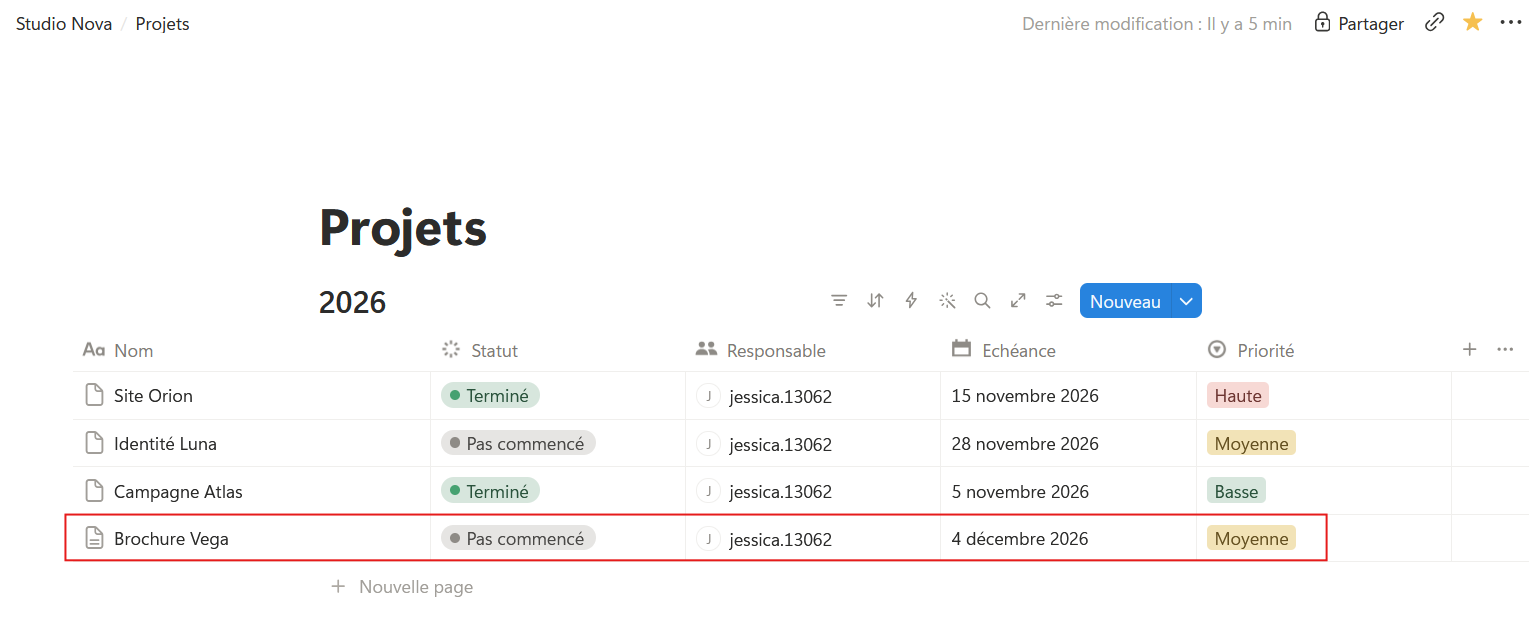
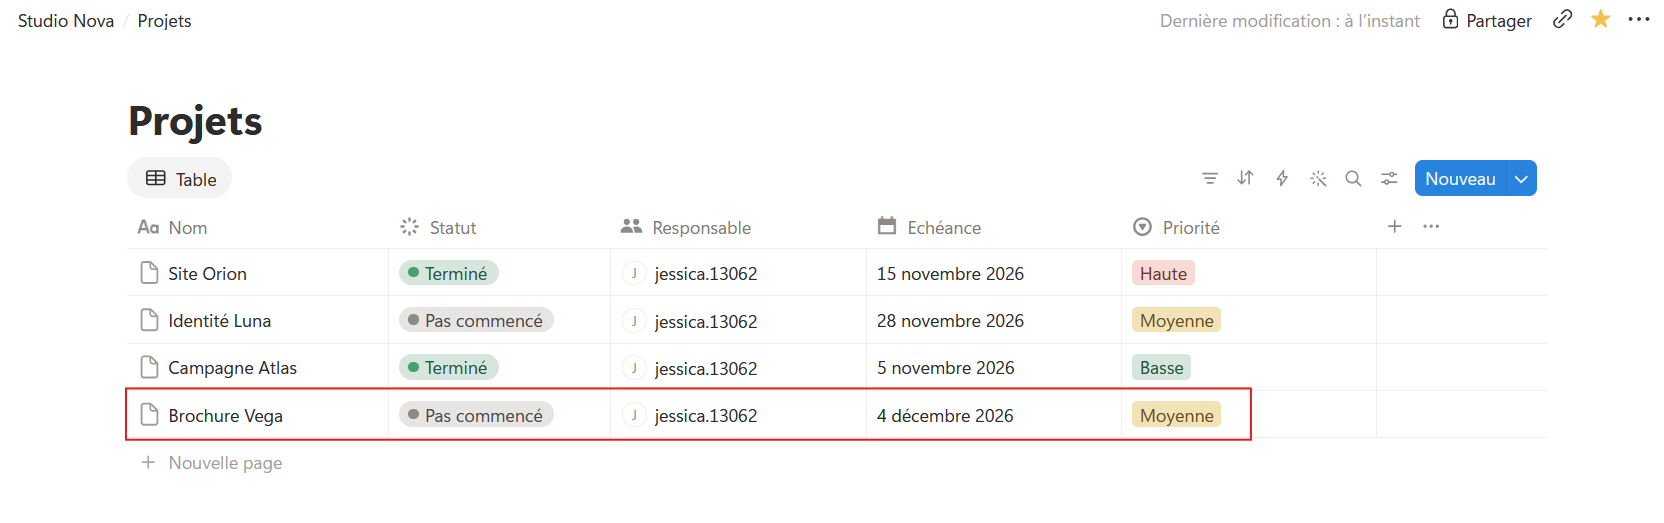
Captures des modules 4 à 6 et corrections
- 18 captures intégrées (4.5, 4.6, 5.1 à 5.4, 6.1 à 6.4) ; deux anciennes remplacées
- 3.1 : schéma et quiz sans la « Réunion client Orion », jamais créée
- 4.5 : « Base de données vide » ; étape pour recréer les liens vers Projets
- 5.1 : vue « Table » renommée via « Afficher les paramètres »
- 5.4 : tri « Ancien → Nouveau » au lieu de « croissant »
- 6.1 : statut de chaque tâche, filtre « Responsable : Contient »
- 6.3 : « /linked » → « Vue liée de la source de données »

Claude-Session: https://claude.ai/code/session_01FC8iCvTPbnXeTJtYSQPRyh

diff --git a/lecons/m04-l05-creer-la-base-projets.html b/lecons/m04-l05-creer-la-base-projets.html
@@ -88,21 +88,13 @@
 
         <ol class="tutorial">
           <li>Ouvre la page « Projets », vide depuis le module 2.</li>
-          <li>Sans rien taper dans la page, regarde en bas : Notion propose plusieurs options en gris pour commencer. Choisis <strong>« Base de données »</strong>.
+          <li>Sans rien taper dans la page, regarde en bas : sous « Premiers pas… », Notion propose plusieurs options en gris. Choisis <strong>« Base de données »</strong>.
             <figure class="screenshot">
-              <div class="screenshot__placeholder" role="img" aria-label="Emplacement pour une capture d'écran : la page « Projets » vide, avec les options en gris en bas et « Base de données » signalée">
-                <svg viewBox="0 0 24 24" fill="none" stroke="currentColor" stroke-width="1.5" stroke-linecap="round" stroke-linejoin="round" aria-hidden="true"><rect x="3" y="4" width="18" height="16" rx="2"/><circle cx="9" cy="10" r="2"/><path d="M21 16l-5-5-8 8"/></svg>
-                <strong>Capture d'écran Notion</strong>
-                <span>Option « Base de données » d'une page vide · images/captures/m04-projets-option-base.png</span>
-              </div>
+              <img src="../images/captures/m04-projets-option-base.png" alt="La page « Projets » vide : en bas, sous « Premiers pas… », l'option « Base de données » est entourée, à côté de Demander à l'IA, Notes d'IA, Formulaire et Modèles" width="1735" height="1020" loading="lazy">
             </figure></li>
-          <li>En haut à droite, sélectionne <strong>« Nouvelle base de données »</strong>. La page « Projets » devient la base : son titre reste « Projets », et un tableau apparaît dessous.
+          <li>Une fenêtre de modèles s'ouvre. En haut à droite, clique sur <strong>« Base de données vide »</strong>. La page « Projets » devient la base : son titre reste « Projets », et un tableau apparaît dessous.
             <figure class="screenshot">
-              <div class="screenshot__placeholder" role="img" aria-label="Emplacement pour une capture d'écran : le choix « Nouvelle base de données » en haut à droite, signalé">
-                <svg viewBox="0 0 24 24" fill="none" stroke="currentColor" stroke-width="1.5" stroke-linecap="round" stroke-linejoin="round" aria-hidden="true"><rect x="3" y="4" width="18" height="16" rx="2"/><circle cx="9" cy="10" r="2"/><path d="M21 16l-5-5-8 8"/></svg>
-                <strong>Capture d'écran Notion</strong>
-                <span>Créer une nouvelle base · images/captures/m04-projets-nouvelle-base.png</span>
-              </div>
+              <img src="../images/captures/m04-projets-nouvelle-base.png" alt="La fenêtre des modèles de base de données : le bouton « Base de données vide », en haut à droite, est encadré" width="1387" height="913" loading="lazy">
             </figure></li>
           <li>La base apparaît avec une colonne « Nom ». Si d'autres colonnes sont proposées par défaut, supprime-les : clic sur le nom de la colonne, puis « Supprimer la propriété ».</li>
           <li>Clique sur le <strong>+</strong> à droite des colonnes. Nomme la propriété « Statut » et choisis le type <strong>« État »</strong>. Les options « Pas commencé », « En cours » et « Terminé » sont déjà créées.</li>
@@ -110,24 +102,22 @@
           <li>Ajoute « Échéance », de type « Date ».</li>
           <li>Ajoute « Priorité », de type <strong>« Sélectionner »</strong>. Pour créer ses options, clique sur le nom de la colonne « Priorité », puis sur <strong>« Modifier la propriété »</strong>. Dans la partie « Options », clique sur le <strong>+</strong> et crée les trois options : Haute, Moyenne, Basse.
             <figure class="screenshot">
-              <img src="../images/captures/m04-projets-colonnes.png" alt="Le menu de la colonne « Priorité » : « Modifier la propriété » encadré, puis le « + » des options et les trois options Basse, Moyenne et Haute" width="1186" height="945" loading="lazy">
+              <img src="../images/captures/m04-projets-modifier-propriete.png" alt="Le menu de la colonne « Priorité » : « Modifier la propriété » encadré, puis le « + » des options entouré et les trois options Basse, Moyenne et Haute" width="1229" height="849" loading="lazy">
             </figure></li>
           <li>Saisis les trois projets : Site Orion (En cours, Emma, 15 novembre, Haute) ; Identité Luna (Pas commencé, Lucas, 28 novembre, Moyenne) ; Campagne Atlas (Terminé, Emma, 5 novembre, Basse). Comme responsable, choisis-toi toi-même (voir l'encadré au début).
             <figure class="screenshot">
-              <div class="screenshot__placeholder" role="img" aria-label="Emplacement pour une capture d'écran : la base « Projets » remplie avec les trois projets : Site Orion, Identité Luna et Campagne Atlas, avec leur statut, leur responsable, leur échéance et leur priorité">
-                <svg viewBox="0 0 24 24" fill="none" stroke="currentColor" stroke-width="1.5" stroke-linecap="round" stroke-linejoin="round" aria-hidden="true"><rect x="3" y="4" width="18" height="16" rx="2"/><circle cx="9" cy="10" r="2"/><path d="M21 16l-5-5-8 8"/></svg>
-                <strong>Capture d'écran Notion</strong>
-                <span>Base Projets remplie · images/captures/m04-projets-remplie.png</span>
-              </div>
+              <img src="../images/captures/m04-projets-remplie.png" alt="La base « Projets » remplie : Site Orion (En cours, Haute), Identité Luna (Pas commencé, Moyenne) et Campagne Atlas (Terminé, Basse), chacun avec son responsable et son échéance" width="1656" height="575" loading="lazy">
             </figure></li>
-        </ol>
+        <li>Les liens vers « Projets » créés aux modules 2 et 3 (les « Liens utiles » de l'accueil, la réunion du 3 novembre, ton favori) menaient à l'ancienne page. Ouvre-les : s'ils ne mènent plus à la base, supprime-les et recrée-les avec « @Projets », et remets l'étoile pour le favori.</li>
+          </ol>
 
 
         <div class="exercise">
           <p class="exercise__kicker">Exercice · dans Notion</p>
           <h3>La base « Projets » de Studio Nova</h3>
           <ol>
-            <li>Transforme la page « Projets » en base pleine page : option grise « Base de données », puis « Nouvelle base de données ».</li>
+            <li>Transforme la page « Projets » en base pleine page : option grise « Base de données », puis « Base de données vide ».</li>
+            <li>Vérifie les liens vers « Projets » et recrée ceux qui ne mènent plus à la base.</li>
             <li>Crée les cinq propriétés : Nom, Statut, Responsable, Échéance, Priorité.</li>
             <li>Saisis les trois projets de Studio Nova.</li>
           </ol>

diff --git a/lecons/m05-l04-filtrer-trier-regrouper.html b/lecons/m05-l04-filtrer-trier-regrouper.html
@@ -58,7 +58,7 @@
         <p>À trois projets, tout tient à l'écran. À cinquante, il faut pouvoir répondre vite à des questions comme « qu'est-ce qui est en cours ? » ou « qu'est-ce qui arrive en premier ? ». Trois outils servent à ça, en haut à droite de la base : Filtrer et Trier ont chacun leur icône, Grouper se trouve dans le menu des réglages de la vue.</p>
         <ul>
           <li><strong>Filtrer</strong> (<em>Filter</em>) : n'afficher que les entrées qui respectent une condition. « Statut est En cours » cache tous les autres projets.</li>
-          <li><strong>Trier</strong> (<em>Sort</em>) : changer l'ordre d'affichage. « Échéance, croissant » met le projet le plus urgent en haut.</li>
+          <li><strong>Trier</strong> (<em>Sort</em>) : changer l'ordre d'affichage. « Échéance, ancien → nouveau » met le projet le plus urgent en haut.</li>
           <li><strong>Grouper</strong> (<em>Group</em>) : ranger les entrées en paquets selon une propriété, avec un titre par paquet : « Pas commencé », « En cours », « Terminé ».</li>
         </ul>
         <p>Ces réglages appartiennent à <strong>la vue</strong>, pas à la base. Un filtre ne supprime rien : il cache. Retire le filtre, et tous les projets reviennent. C'est pourquoi on crée souvent une vue par question : « En cours », « Mes projets », « Cette semaine ».</p>
@@ -85,7 +85,7 @@
             <select id="q54a"><option value="">Choisis…</option><option value="filtre">Filtrer</option><option value="tri">Trier</option><option value="groupe">Grouper</option></select>
             <p class="sort-ex__feedback" hidden></p>
           </div>
-          <div class="sort-ex__row" data-answer="tri" data-explain="Un tri par échéance croissante met la date la plus proche en premier.">
+          <div class="sort-ex__row" data-answer="tri" data-explain="Un tri par échéance, de l'ancienne à la nouvelle date, met la date la plus proche en premier.">
             <label class="sort-ex__label" for="q54b">Emma veut le projet le plus urgent tout en haut.</label>
             <select id="q54b"><option value="">Choisis…</option><option value="filtre">Filtrer</option><option value="tri">Trier</option><option value="groupe">Grouper</option></select>
             <p class="sort-ex__feedback" hidden></p>
@@ -110,20 +110,12 @@
           <li>Dans ta base « Projets », ajoute une vue Table nommée « En cours ».</li>
           <li>En haut à droite de la base, clique sur l'icône <strong>Filtrer</strong> (les trois traits). Choisis la propriété Statut, puis coche « En cours ». Le filtre s'affiche sous les onglets ; Notion peut l'écrire en anglais, « Statut: In progress ».
             <figure class="screenshot">
-              <div class="screenshot__placeholder" role="img" aria-label="Emplacement pour une capture d'écran : la vue « En cours » : l'icône Filtrer entourée, le filtre sur le statut sous les onglets, et seul le projet en cours affiché">
-                <svg viewBox="0 0 24 24" fill="none" stroke="currentColor" stroke-width="1.5" stroke-linecap="round" stroke-linejoin="round" aria-hidden="true"><rect x="3" y="4" width="18" height="16" rx="2"/><circle cx="9" cy="10" r="2"/><path d="M21 16l-5-5-8 8"/></svg>
-                <strong>Capture d'écran Notion</strong>
-                <span>Filtre sur le statut · images/captures/m05-filtre-statut.png</span>
-              </div>
+              <img src="../images/captures/m05-filtre-statut.png" alt="La vue « En cours » : l'icône Filtrer entourée, le filtre « Statut: In progress » sous les onglets, et seul le projet « Identité Luna », en cours, affiché" width="1656" height="448" loading="lazy">
             </figure></li>
-          <li>Clique ensuite sur l'icône <strong>Trier</strong> (les deux flèches), juste à droite, choisis Échéance, ordre croissant.</li>
+          <li>Clique ensuite sur l'icône <strong>Trier</strong> (les deux flèches), juste à droite, choisis Échéance, puis l'ordre « Ancien → Nouveau » : l'échéance la plus proche passe en premier. L'ordre « Nouveau → Ancien » fait l'inverse.</li>
           <li>Dans la vue « Tous les projets », ouvre le menu des réglages (les petits curseurs), puis <strong>« Grouper »</strong>, et choisis Statut dans « Grouper par ».
             <figure class="screenshot">
-              <div class="screenshot__placeholder" role="img" aria-label="Emplacement pour une capture d'écran : la vue « Tous les projets » regroupée par statut, avec le panneau « Grouper » et la ligne « Grouper par : Statut » encadrée">
-                <svg viewBox="0 0 24 24" fill="none" stroke="currentColor" stroke-width="1.5" stroke-linecap="round" stroke-linejoin="round" aria-hidden="true"><rect x="3" y="4" width="18" height="16" rx="2"/><circle cx="9" cy="10" r="2"/><path d="M21 16l-5-5-8 8"/></svg>
-                <strong>Capture d'écran Notion</strong>
-                <span>Vue regroupée par statut · images/captures/m05-regrouper-statut.png</span>
-              </div>
+              <img src="../images/captures/m05-regrouper-statut.png" alt="La vue « Tous les projets » regroupée en Pas commencé, En cours et Terminé ; à droite, le panneau « Grouper » avec « Grouper par : Statut », ouvert depuis l'icône des réglages entourée" width="1653" height="896" loading="lazy">
             </figure></li>
           <li>Compare tes vues : chacune répond à une question, et la base n'a pas changé.</li>
         </ol>

diff --git a/lecons/m06-l03-une-page-d-accueil-simple.html b/lecons/m06-l03-une-page-d-accueil-simple.html
@@ -61,7 +61,7 @@
           <li><strong>Où aller ?</strong> Des accès rapides vers les grandes parties de l'espace : Projets, Tâches, Ressources, Notes &amp; réunions.</li>
           <li><strong>Que faire aujourd'hui ?</strong> Les tâches de la semaine, affichées directement.</li>
         </ul>
-        <p>Pour la troisième partie, pas question de recopier les tâches : on insère une <strong>vue liée</strong> de la base « Tâches » (<em>Linked view</em>). C'est une fenêtre sur la base, affichée dans une autre page. Tu tapes « /vue liée » (ou « /linked »), tu choisis la base « Tâches », puis tu filtres sur les tâches de la semaine. Une tâche cochée dans l'accueil est cochée dans la base, puisque c'est la même.</p>
+        <p>Pour la troisième partie, pas question de recopier les tâches : on insère une <strong>vue liée</strong> de la base « Tâches » (<em>Linked view</em>). C'est une fenêtre sur la base, affichée dans une autre page. Tu tapes « /linked », tu choisis « Vue liée de la source de données », puis la base « Tâches », puis tu filtres sur les tâches de la semaine. Une tâche cochée dans l'accueil est cochée dans la base, puisque c'est la même.</p>
 
         <figure class="illustration">
           <img src="../images/illustrations/m06-accueil-zones.svg" alt="Maquette de la page « Accueil — Studio Nova » en trois zones numérotées : 1, Accueillir : un encadré « Bienvenue ! Ici, tout ce qu'il faut pour la semaine » ; 2, Orienter : des accès rapides vers Projets, Tâches, Ressources, Notes et réunions ; 3, Agir : un tableau, vue « Cette semaine » de la base Tâches." width="720" height="320">
@@ -81,21 +81,13 @@
           <li>Ouvre « Accueil — Studio Nova ». Supprime l'ancienne section « Cette semaine » du module 2, avec son titre et sa checklist : les tâches vivent maintenant dans la base.</li>
           <li>En haut, transforme ta phrase d'accueil en encadré (poignée ⋮⋮, puis « Transformer en » et « Encadré »).</li>
           <li>Renomme le titre 2 « Liens utiles » en « Accès rapides », puis vérifie les quatre liens en dessous : Projets, Tâches, Ressources, Notes &amp; réunions (« @ » pour ceux qui manquent).</li>
-          <li>En dessous, ajoute un titre 2 « Cette semaine ». Tape « /vue liée » (<em>/linked view</em>) et choisis la base « Tâches ».
+          <li>En dessous, ajoute un titre 2 « Cette semaine ». Tape « /linked », choisis <strong>« Vue liée de la source de données »</strong>, puis la base « Tâches ».
             <figure class="screenshot">
-              <div class="screenshot__placeholder" role="img" aria-label="Emplacement pour une capture d'écran : le menu « / » avec l'option de vue liée de base de données, puis le choix de la base « Tâches »">
-                <svg viewBox="0 0 24 24" fill="none" stroke="currentColor" stroke-width="1.5" stroke-linecap="round" stroke-linejoin="round" aria-hidden="true"><rect x="3" y="4" width="18" height="16" rx="2"/><circle cx="9" cy="10" r="2"/><path d="M21 16l-5-5-8 8"/></svg>
-                <strong>Capture d'écran Notion</strong>
-                <span>Insérer une vue liée · images/captures/m06-vue-liee.png</span>
-              </div>
+              <img src="../images/captures/m06-vue-liee.png" alt="« /linked » tapé dans l'accueil : le menu propose « Vue liée de la source de données » en premier, signalée par une flèche" width="1518" height="779" loading="lazy">
             </figure></li>
-          <li>Dans la vue liée, choisis la disposition Liste ou Table, puis ajoute un filtre sur l'Échéance : « Cette semaine ». Si aucune tâche n'apparaît, c'est qu'aucune échéance ne tombe cette semaine : change la date d'une tâche pour vérifier.
+          <li>Dans la vue liée, choisis la disposition Liste ou Table, puis ajoute un filtre sur l'Échéance : « Cette semaine » (Notion l'affiche « Échéance : Ce(tte) semaine »). Si aucune tâche n'apparaît, c'est qu'aucune échéance ne tombe cette semaine : change la date d'une tâche pour vérifier.
             <figure class="screenshot">
-              <div class="screenshot__placeholder" role="img" aria-label="Emplacement pour une capture d'écran : la page d'accueil terminée avec l'encadré, les accès rapides et la vue liée des tâches de la semaine">
-                <svg viewBox="0 0 24 24" fill="none" stroke="currentColor" stroke-width="1.5" stroke-linecap="round" stroke-linejoin="round" aria-hidden="true"><rect x="3" y="4" width="18" height="16" rx="2"/><circle cx="9" cy="10" r="2"/><path d="M21 16l-5-5-8 8"/></svg>
-                <strong>Capture d'écran Notion</strong>
-                <span>Accueil terminé · images/captures/m06-accueil-final.png</span>
-              </div>
+              <img src="../images/captures/m06-accueil-final.png" alt="La page d'accueil terminée : les deux encadrés, les accès rapides vers Projets, Tâches, Ressources et Notes & réunions, puis « Cette semaine » avec la vue liée des tâches et son filtre « Échéance : Ce(tte) semaine » encadré" width="1621" height="953" loading="lazy">
             </figure></li>
         </ol>
 

diff --git a/lecons/m06-l01-les-5-parties-de-studio-nova.html b/lecons/m06-l01-les-5-parties-de-studio-nova.html
@@ -107,24 +107,16 @@
         <p>Il manque une partie à ton espace Studio Nova : la base « Tâches ». Crée-la, puis vérifie que les cinq parties sont en place.</p>
         <ol class="tutorial">
           <li>Dans « Studio Nova », crée une sous-page « Tâches ».</li>
-          <li>Sans rien taper, choisis en bas l'option grise <strong>« Base de données »</strong>, puis <strong>« Nouvelle base de données »</strong> en haut à droite, comme pour « Projets » au module 4.</li>
+          <li>Sans rien taper, choisis en bas l'option grise <strong>« Base de données »</strong>, puis <strong>« Base de données vide »</strong> en haut à droite, comme pour « Projets » au module 4.</li>
           <li>Crée les propriétés : Statut (État), Responsable (Personne), Échéance (Date).</li>
-          <li>Ajoute trois tâches : « Finaliser la maquette du site Orion » (En cours, échéance le 15 novembre), « Préparer la réunion client » (le 18 novembre) et « Mettre à jour les ressources » (le 20 novembre). Comme responsable, choisis-toi toi-même pour chacune, comme pour les projets au module 4 : ton espace d'entraînement n'a pas d'autres membres.</li>
-          <li>Nomme la première vue « Toutes les tâches », puis ajoute une vue Kanban « Suivi » et une vue Table « Mes tâches » filtrée sur « Responsable est moi ».
+          <li>Ajoute trois tâches : « Finaliser la maquette du site Orion » (En cours, échéance le 15 novembre), « Préparer la réunion client » (Pas commencé, le 18 novembre) et « Mettre à jour les ressources » (Pas commencé, le 20 novembre). Comme responsable, choisis-toi toi-même pour chacune, comme pour les projets au module 4 : ton espace d'entraînement n'a pas d'autres membres.</li>
+          <li>Nomme la première vue « Toutes les tâches », puis ajoute une vue Kanban « Suivi » et une vue Table « Mes tâches » filtrée sur le Responsable : choisis ton propre nom. Notion affiche le filtre « Responsable : Contient … ».
             <figure class="screenshot">
-              <div class="screenshot__placeholder" role="img" aria-label="Emplacement pour une capture d'écran : la base « Tâches » avec ses trois tâches et les onglets de vues « Toutes les tâches », « Suivi » et « Mes tâches »">
-                <svg viewBox="0 0 24 24" fill="none" stroke="currentColor" stroke-width="1.5" stroke-linecap="round" stroke-linejoin="round" aria-hidden="true"><rect x="3" y="4" width="18" height="16" rx="2"/><circle cx="9" cy="10" r="2"/><path d="M21 16l-5-5-8 8"/></svg>
-                <strong>Capture d'écran Notion</strong>
-                <span>Base Tâches et ses vues · images/captures/m06-base-taches.png</span>
-              </div>
+              <img src="../images/captures/m06-base-taches.png" alt="La base « Tâches » sur la vue « Mes tâches » : le filtre « Responsable : Contient … » encadré, et les trois tâches avec leur statut, leur responsable et leur échéance ; au-dessus, les onglets Toutes les tâches, Suivi et Mes tâches" width="1616" height="543" loading="lazy">
             </figure></li>
           <li>Dans la barre latérale, déplie « Studio Nova » et vérifie les cinq parties.
             <figure class="screenshot">
-              <div class="screenshot__placeholder" role="img" aria-label="Emplacement pour une capture d'écran : la barre latérale avec « Studio Nova » déplié et ses cinq parties">
-                <svg viewBox="0 0 24 24" fill="none" stroke="currentColor" stroke-width="1.5" stroke-linecap="round" stroke-linejoin="round" aria-hidden="true"><rect x="3" y="4" width="18" height="16" rx="2"/><circle cx="9" cy="10" r="2"/><path d="M21 16l-5-5-8 8"/></svg>
-                <strong>Capture d'écran Notion</strong>
-                <span>Les cinq parties dans la barre latérale · images/captures/m06-cinq-parties-barre-laterale.png</span>
-              </div>
+              <img src="../images/captures/m06-cinq-parties-barre-laterale.png" alt="La barre latérale : sous « Studio Nova », les cinq parties encadrées : Accueil - Studio Nova, Projets, Tâches, Ressources et Notes & réunions" width="340" height="876" loading="lazy">
             </figure></li>
         </ol>
 

diff --git a/lecons/m05-l01-une-base-plusieurs-vues.html b/lecons/m05-l01-une-base-plusieurs-vues.html
@@ -79,25 +79,17 @@
       <section class="lesson-step prose" data-step="Faire" aria-labelledby="etape-3">
         <h2 id="etape-3">Ajouter une vue « Suivi »</h2>
         <ol class="tutorial">
-          <li>Ouvre ta base « Projets » : elle s'affiche en table. Au départ, sa vue n'a pas de nom, et aucun onglet n'apparaît encore au-dessus du tableau.</li>
-          <li>Pour nommer la vue, clique sur l'icône des réglages (les petits curseurs), juste à gauche du bouton bleu « Nouveau ». Tout en haut du menu, dans le champ <strong>« Nom de la vue »</strong>, tape « Tous les projets ».
+          <li>Ouvre ta base « Projets » : elle s'affiche en table. Au départ, sa seule vue porte le nom donné par Notion : « Table ».</li>
+          <li>Pour nommer la vue, clique sur l'icône des réglages (les petits curseurs), juste à gauche du bouton bleu « Nouveau ». Le panneau « Afficher les paramètres » s'ouvre : tout en haut, remplace « Table » par « Tous les projets ».
             <figure class="screenshot">
-              <div class="screenshot__placeholder" role="img" aria-label="Emplacement pour une capture d'écran : la base « Projets » : l'icône des réglages de la vue entourée, et le champ « Nom de la vue » encadré en haut du menu">
-                <svg viewBox="0 0 24 24" fill="none" stroke="currentColor" stroke-width="1.5" stroke-linecap="round" stroke-linejoin="round" aria-hidden="true"><rect x="3" y="4" width="18" height="16" rx="2"/><circle cx="9" cy="10" r="2"/><path d="M21 16l-5-5-8 8"/></svg>
-                <strong>Capture d'écran Notion</strong>
-                <span>Nommer la vue · images/captures/m05-nom-vue.png</span>
-              </div>
+              <img src="../images/captures/m05-nom-vue.png" alt="La base « Projets » : l'icône des réglages entourée, et le panneau « Afficher les paramètres » avec le nom de la vue « Tous les projets » encadré" width="1656" height="604" loading="lazy">
             </figure></li>
           <li>Clique sur le <strong>+</strong> au-dessus du tableau, à droite de la vue « Tous les projets ». Le menu « Ajouter une nouvelle vue » s'ouvre.
             <figure class="screenshot">
-              <div class="screenshot__placeholder" role="img" aria-label="Emplacement pour une capture d'écran : le « + » entouré au-dessus du tableau : le menu « Ajouter une nouvelle vue » avec Table, Kanban, Galerie, Liste, Calendrier, Chronologie…">
-                <svg viewBox="0 0 24 24" fill="none" stroke="currentColor" stroke-width="1.5" stroke-linecap="round" stroke-linejoin="round" aria-hidden="true"><rect x="3" y="4" width="18" height="16" rx="2"/><circle cx="9" cy="10" r="2"/><path d="M21 16l-5-5-8 8"/></svg>
-                <strong>Capture d'écran Notion</strong>
-                <span>Ajouter une vue · images/captures/m05-ajouter-vue.png</span>
-              </div>
+              <img src="../images/captures/m05-ajouter-vue.png" alt="Le « + » entouré à droite de l'onglet « Tous les projets » : le menu « Ajouter une nouvelle vue » propose Table, Kanban, Galerie, Liste, Graphique, Dashboard, Chronologie, Fil d'actualité, Carte, Calendrier et Formulaire" width="1650" height="585" loading="lazy">
             </figure></li>
           <li>Choisis <strong>Kanban</strong>. Notion range les projets en colonnes selon leur statut.</li>
-          <li>Nomme la nouvelle vue « Suivi », avec le champ « Nom de la vue » comme à l'étape 2. Tu as maintenant deux onglets au-dessus de la base : « Tous les projets » et « Suivi ».</li>
+          <li>Nomme la nouvelle vue « Suivi », dans les réglages de la vue comme à l'étape 2. Tu as maintenant deux onglets au-dessus de la base : « Tous les projets » et « Suivi ».</li>
           <li>Dans « Suivi », passe « Identité Luna » en « En cours ». Reviens sur « Tous les projets » : le statut a changé là aussi.</li>
         </ol>
 

diff --git a/lecons/m04-l06-ajouter-ouvrir-modifier.html b/lecons/m04-l06-ajouter-ouvrir-modifier.html
@@ -82,17 +82,13 @@
           <li>Ouvre ta base « Projets ». Clique dans la case Statut de « Site Orion » et choisis « Terminé ».</li>
           <li>Clique sur « + Nouvelle page » sous la dernière ligne. Nomme le projet « Brochure Vega », statut « Pas commencé », échéance au 4 décembre, priorité Moyenne.
             <figure class="screenshot">
-              <div class="screenshot__placeholder" role="img" aria-label="Emplacement pour une capture d'écran : la base « Projets » avec la nouvelle ligne « Brochure Vega » encadrée : Pas commencé, 4 décembre 2026 et Moyenne">
-                <svg viewBox="0 0 24 24" fill="none" stroke="currentColor" stroke-width="1.5" stroke-linecap="round" stroke-linejoin="round" aria-hidden="true"><rect x="3" y="4" width="18" height="16" rx="2"/><circle cx="9" cy="10" r="2"/><path d="M21 16l-5-5-8 8"/></svg>
-                <strong>Capture d'écran Notion</strong>
-                <span>Nouveau projet dans la base · images/captures/m04-ajout-projet.png</span>
-              </div>
+              <img src="../images/captures/m04-ajout-projet.png" alt="La base « Projets » avec la nouvelle ligne « Brochure Vega » encadrée : Pas commencé, 4 décembre 2026 et Moyenne ; Site Orion est passé en Terminé" width="1664" height="523" loading="lazy">
             </figure></li>
           <li>Ouvre « Brochure Vega » avec le bouton « Ouvrir ». Sous les propriétés, écris : « Brochure de 8 pages pour le client Vega. »</li>
           <li>Ajoute une checklist de deux tâches : « Recevoir les textes du client » et « Proposer une mise en page ».</li>
           <li>Ferme la page. Clique sur le nom de la colonne « Priorité » et choisis « Masquer » (<em>Hide</em>) : la colonne disparaît du tableau.
             <figure class="screenshot">
-              <img src="../images/captures/m04-menu-colonne.png" alt="Le menu de la colonne « Priorité » ouvert, avec l'option « Masquer » signalée par une flèche" width="1527" height="1031" loading="lazy">
+              <img src="../images/captures/m04-projets-priorite-masquer.png" alt="Le menu de la colonne « Priorité » ouvert, avec l'option « Masquer » signalée par une flèche" width="756" height="870" loading="lazy">
             </figure></li>
           <li>Ouvre de nouveau « Brochure Vega » : la priorité est toujours là, en haut de la page. Pour réafficher la colonne, ouvre le menu des réglages de la vue, en haut à droite de la base, puis « Visibilité des propriétés » (<em>Property visibility</em>).</li>
         </ol>

diff --git a/lecons/m03-l01-l-arborescence.html b/lecons/m03-l01-l-arborescence.html
@@ -65,7 +65,7 @@
         <p>Une page peut changer de place à tout moment. Pour la déplacer, tu peux la <strong>glisser</strong> dans la barre latérale sur une autre page, ou ouvrir le menu <strong>···</strong> en haut à droite de la page et choisir <strong>« Déplacer vers »</strong> (<em>Move to</em>). Le contenu suit : rien n'est perdu.</p>
 
         <figure class="illustration">
-          <img src="../images/illustrations/m03-arborescence.svg" alt="Schéma en trois niveaux : « Studio Nova » au niveau 1, relié à quatre pages au niveau 2 (Accueil, Projets, Ressources, Notes et réunions) ; « Notes et réunions », mise en avant, contient deux pages au niveau 3 : « Réunion d'équipe — 3 nov. » et « Réunion client Orion »." width="720" height="320">
+          <img src="../images/illustrations/m03-arborescence.svg" alt="Schéma en trois niveaux : « Studio Nova » au niveau 1, relié à quatre pages au niveau 2 (Accueil, Projets, Ressources, Notes et réunions) ; « Notes et réunions », mise en avant, contient deux pages au niveau 3 : « Réunion d'équipe — 3 nov. » et « Brouillon »." width="720" height="320">
           <figcaption>L'arborescence de Studio Nova à la fin de cette leçon.</figcaption>
         </figure>
         <p class="definition">L'arborescence est le rangement des pages les unes dans les autres : une page parente contient des sous-pages.</p>
@@ -140,7 +140,7 @@
 
         <div class="quiz" data-quiz>
           <fieldset>
-            <legend><span class="quiz__count">Mini-quiz · question 2 sur 2</span><span class="quiz__question">Tu déplaces la page « Réunion client Orion » dans une autre page parente. Que devient son contenu ?</span></legend>
+            <legend><span class="quiz__count">Mini-quiz · question 2 sur 2</span><span class="quiz__question">Tu déplaces la page « Réunion d'équipe — 3 novembre » dans une autre page parente. Que devient son contenu ?</span></legend>
             <div class="quiz__options">
               <label class="quiz__option"><input type="radio" name="q2" value="a"><span class="quiz__option-text">Il est effacé : il faut le recopier.</span><span class="quiz__tag"></span></label>
               <label class="quiz__option"><input type="radio" name="q2" value="b" data-correct><span class="quiz__option-text">Il suit la page, sans aucune perte.</span><span class="quiz__tag"></span></label>

diff --git a/lecons/m05-l02-table-liste-board.html b/lecons/m05-l02-table-liste-board.html
@@ -110,11 +110,7 @@
           <li>Dans ta base « Projets », ouvre la vue « Suivi » créée à la leçon précédente.</li>
           <li>Fais glisser la carte « Campagne Atlas » dans la colonne « En cours », puis remets-la dans « Terminé ».
             <figure class="screenshot">
-              <div class="screenshot__placeholder" role="img" aria-label="Emplacement pour une capture d'écran : la vue Kanban « Suivi » de la base « Projets », avec la carte « Campagne Atlas » glissée d'une colonne à l'autre">
-                <svg viewBox="0 0 24 24" fill="none" stroke="currentColor" stroke-width="1.5" stroke-linecap="round" stroke-linejoin="round" aria-hidden="true"><rect x="3" y="4" width="18" height="16" rx="2"/><circle cx="9" cy="10" r="2"/><path d="M21 16l-5-5-8 8"/></svg>
-                <strong>Capture d'écran Notion</strong>
-                <span>Déplacer une carte sur le Kanban · images/captures/m05-kanban-glisser.png</span>
-              </div>
+              <img src="../images/captures/m05-kanban-glisser.png" alt="La vue Kanban « Suivi » : la carte « Campagne Atlas », encadrée dans la colonne « En cours », est glissée vers la colonne « Terminé »" width="1647" height="496" loading="lazy">
             </figure></li>
           <li>Ajoute une vue <strong>Liste</strong> nommée « Coup d'œil ».</li>
           <li>Dans « Coup d'œil », ouvre le menu des réglages, puis « Visibilité des propriétés », et n'affiche que l'Échéance.</li>

diff --git a/lecons/m05-l03-calendrier-galerie-timeline.html b/lecons/m05-l03-calendrier-galerie-timeline.html
@@ -111,11 +111,7 @@
           <li>Dans ta base « Projets », clique sur <strong>+</strong> à droite des onglets et choisis <strong>Calendrier</strong>.</li>
           <li>Si Notion demande quelle date utiliser, choisis « Échéance ». Nomme la vue « Échéances ».
             <figure class="screenshot">
-              <div class="screenshot__placeholder" role="img" aria-label="Emplacement pour une capture d'écran : la vue Calendrier « Échéances » en novembre 2026, avec les projets placés à leur échéance et le panneau « Visibilité des propriétés »">
-                <svg viewBox="0 0 24 24" fill="none" stroke="currentColor" stroke-width="1.5" stroke-linecap="round" stroke-linejoin="round" aria-hidden="true"><rect x="3" y="4" width="18" height="16" rx="2"/><circle cx="9" cy="10" r="2"/><path d="M21 16l-5-5-8 8"/></svg>
-                <strong>Capture d'écran Notion</strong>
-                <span>Vue Calendrier des échéances · images/captures/m05-vue-calendrier.png</span>
-              </div>
+              <img src="../images/captures/m05-vue-calendrier.png" alt="La vue Calendrier « Échéances » (onglet encadré) en novembre 2026 : Campagne Atlas le 5, Site Orion le 15, Identité Luna le 28 et Brochure Vega le 4 décembre" width="1657" height="1075" loading="lazy">
             </figure></li>
           <li>Fais glisser « Identité Luna » du 28 au 27 novembre. Ouvre le projet : l'échéance a changé.</li>
           <li>Remets-le au 28 novembre.</li>

diff --git a/lecons/m06-l04-ranger-regulierement.html b/lecons/m06-l04-ranger-regulierement.html
@@ -131,11 +131,7 @@
           <li>Pour une tâche écrite dans une page, recrée-la dans la base « Tâches », puis supprime la page.</li>
           <li>Dans la base « Projets », ajoute une vue Table « Archives » filtrée sur « Statut est Terminé ». Les projets terminés y restent consultables, et la vue « En cours » (leçon 5.4) ne montre que les projets actifs.
             <figure class="screenshot">
-              <div class="screenshot__placeholder" role="img" aria-label="Emplacement pour une capture d'écran : la base Projets avec une vue « En cours » et une vue « Archives » filtrée sur les projets terminés">
-                <svg viewBox="0 0 24 24" fill="none" stroke="currentColor" stroke-width="1.5" stroke-linecap="round" stroke-linejoin="round" aria-hidden="true"><rect x="3" y="4" width="18" height="16" rx="2"/><circle cx="9" cy="10" r="2"/><path d="M21 16l-5-5-8 8"/></svg>
-                <strong>Capture d'écran Notion</strong>
-                <span>Vues En cours et Archives · images/captures/m06-vue-archives.png</span>
-              </div>
+              <img src="../images/captures/m06-vue-archives.png" alt="La vue « Archives » de la base « Projets » : seuls Campagne Atlas et Site Orion, au statut Terminé (colonne encadrée), sont affichés" width="1618" height="431" loading="lazy">
             </figure></li>
           <li>Termine en ouvrant la Corbeille : vérifie que tu n'as rien supprimé par erreur.</li>
         </ol>

diff --git a/lecons/m06-l02-nommer-clairement.html b/lecons/m06-l02-nommer-clairement.html
@@ -87,11 +87,7 @@
           <li>Ouvre ta barre latérale et repère les pages au titre flou : « Sans titre », « Nouvelle page », « test »…</li>
           <li>Pour renommer une page, ouvre-la et clique sur son titre, ou fais un clic droit sur elle dans la barre latérale et choisis « Renommer ».
             <figure class="screenshot">
-              <div class="screenshot__placeholder" role="img" aria-label="Emplacement pour une capture d'écran : le menu clic droit d'une page dans la barre latérale, avec l'option Renommer">
-                <svg viewBox="0 0 24 24" fill="none" stroke="currentColor" stroke-width="1.5" stroke-linecap="round" stroke-linejoin="round" aria-hidden="true"><rect x="3" y="4" width="18" height="16" rx="2"/><circle cx="9" cy="10" r="2"/><path d="M21 16l-5-5-8 8"/></svg>
-                <strong>Capture d'écran Notion</strong>
-                <span>Renommer depuis la barre latérale · images/captures/m06-renommer.png</span>
-              </div>
+              <img src="../images/captures/m06-renommer.png" alt="Le clic droit sur « Tâches » dans la barre latérale : le menu ouvert, avec l'option « Renommer » encadrée" width="654" height="601" loading="lazy">
             </figure></li>
           <li>Applique la recette « type + sujet (+ date) ».</li>
           <li>Dans « Notes &amp; réunions », renomme ton compte rendu en « Réunion d'équipe — 3 nov. » si ce n'est pas déjà fait.</li>

diff --git a/AGENTS.md b/AGENTS.md
@@ -226,13 +226,13 @@ corrections, astuces ou encadrés.
 
 - « Projets » et « Tâches » sont des **bases pleine page** : la page vide créée
   au module 2 devient la base (option grise « Base de données » en bas d'une
-  page vide, puis « Nouvelle base de données » en haut à droite). Le titre de la
+  page vide, puis « Base de données vide » en haut à droite de la fenêtre des modèles). Le titre de la
   page est le nom de la base : plus de base intégrée « 2026 ». **[décision de
   l'utilisatrice]** Ne pas utiliser « /base de données » → « Pleine page » dans
   la page : cela crée une sous-page (Projets → Projets).
 - 4.5 réécrite (théorie, étapes, quiz) ; modules 5 à 7 alignés ; 6.1 : « Tâches »
   créée avec la même méthode, statut de type État, première vue « Toutes les tâches ».
-- Captures à refaire (emplacements, mêmes noms de fichiers) : m04-projets-option-base,
+- Captures refaites (v15) : m04-projets-option-base,
   m04-projets-nouvelle-base (nouvelles), m04-projets-remplie, m04-ajout-projet,
   m05-nom-vue, m05-ajouter-vue, m05-kanban-glisser, m05-vue-calendrier,
   m05-filtre-statut, m05-regrouper-statut.
